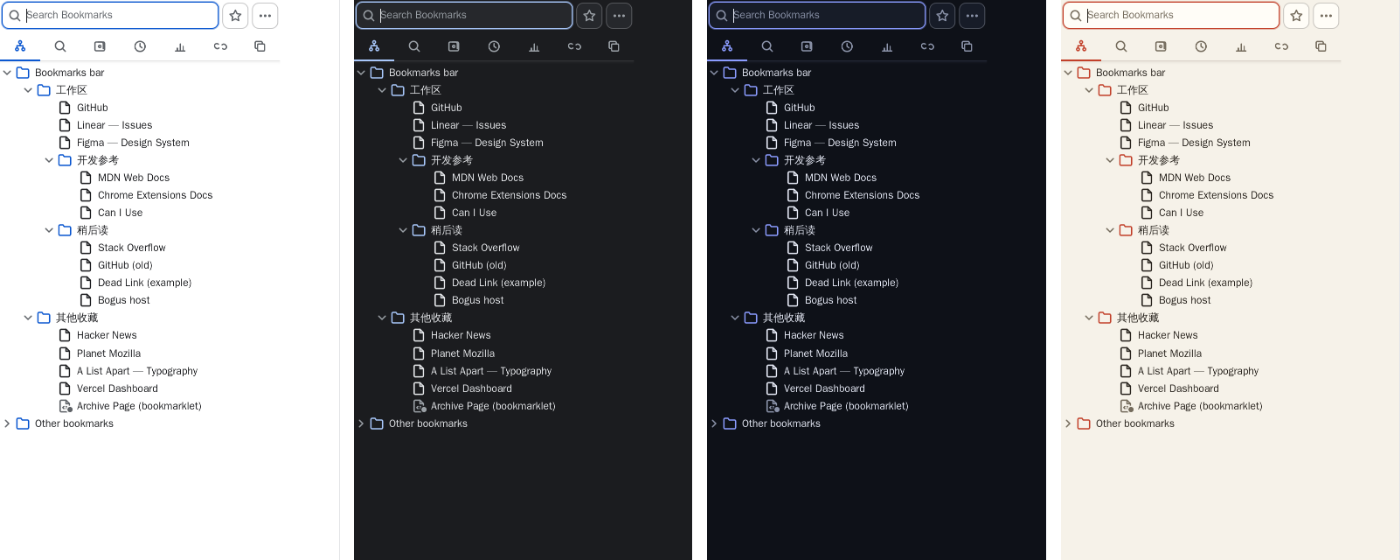
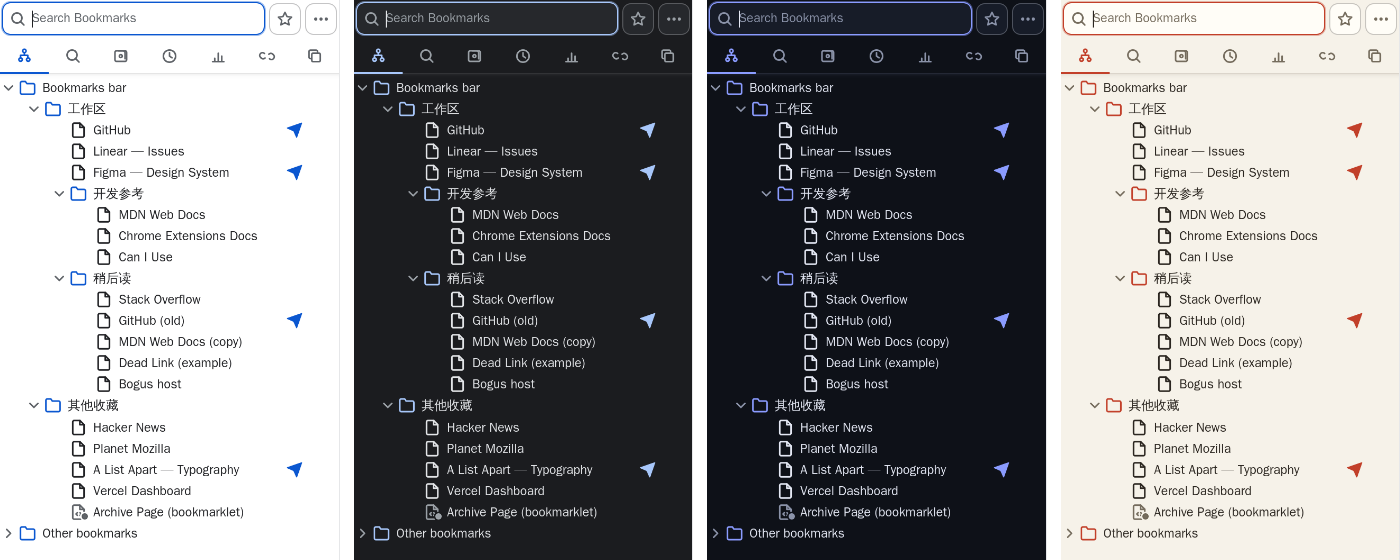
fix(store-assets): 用户反馈三项整改——①瓦片裁剪:shootTile 改为按 #container 实际盒 clip(菜单/面板 overlay 下探时取最大 bottom),strip/themes/promo 各卡不再带视口右侧死白;②视图全覆盖:promo 拆两张,主视图 sheet(树+菜单主卡 + search/暂存分组/tabgroups/stats)+ 维护 sheet promo2(死链/去重/命令面板三大卡),七视图齐;用例构造复用既有机制——data: URL(ASCII 标题防 data-URL 乱码)离线建 5 标签 + chrome.tabs.gr

diff --git a/scripts/screenshots/shots-store.js b/scripts/screenshots/shots-store.js
@@ -1,25 +1,29 @@
 // vBookmarks store-asset composer (velvet §6.3 F / task-1 N7) — the WebStore
 // image specs, produced from live popup states instead of hand assembly.
-// The store shows at most FIVE screenshots; this suite emits a candidate set
-// of four (the fifth slot stays free for the existing brand marquee or a
-// hand-picked extra):
+// The store shows at most FIVE screenshots; this suite emits exactly five:
 //
 //   strip    1400×560 — four theme tiles (light/dark/ink/paper) side by side
-//   promo    1280×800 — main popup + context menu, plus four view minis
-//                       (search / recent / stats / dead), aligned with the
-//                       layout of the hand-made assets/store/vBookmarks-v4.png
+//   promo    1280×800 — sheet 1, the views as entry points: main popup
+//                       (tree + context menu) plus search / staging-recent /
+//                       tab-groups / stats minis, aligned with the hand-made
+//                       assets/store/vBookmarks-v4.png layout
+//   promo2   1280×800 — sheet 2, the maintenance crew: dead-link scanner /
+//                       duplicate cleaner minis + the command palette
 //   themes   1280×800 — the two crafted themes split full-bleed: ink | paper
-//   options  1280×800 — the options page as a multi-column panorama (one
-//                       full-page capture sliced into columns, so all 20
-//                       sections read at a glance)
+//   options  1280×800 — the options page as one panorama (see below)
+//
+// Every popup tile is clipped to the #container box (menus/palettes may
+// extend it downward) — the viewport-width dead margin on the right would
+// otherwise read as a broken layout in the composites.
 //
 // Pipeline: capture each state at deviceScaleFactor 2 (crisp when downscaled)
 // → compose via a temporary HTML grid of <img> tiles → one full-page
 // screenshot at the exact store canvas size. Zero canvas dependency.
 //
-// Output: /tmp/shots/store/{strip,promo,themes,options}.png, plus the raw
-// tiles under tiles/ for manual re-mixing. Human picks and copies the keepers
-// into assets/store/ — nothing here is auto-uploaded.
+// Output: /tmp/shots/store/{strip,promo,promo2,themes,options}.png, plus the
+// raw tiles under tiles/ for manual re-mixing. The keepers are synced to
+// assets/store/ and uploaded via the Developer Dashboard by a human — nothing
+// here is auto-uploaded.
 const puppeteer = require('puppeteer');
 const fs = require('fs');
 const path = require('path');
@@ -31,18 +35,21 @@ const sleep = ms => new Promise(r => setTimeout(r, ms));
 
 // Strip: four theme tiles (classic joins this list when velvet S5 lands).
 const STRIP_THEMES = ['light', 'dark', 'ink', 'paper'];
-// Promo minis: view id on the tab bar → tile name. Capture order matters:
-// search LAST — its typed query persists in storage and would otherwise leak
-// into the boxes of every page opened afterwards. The composite grid places
-// the tiles in display order regardless.
-const PROMO_VIEWS = [
+// Promo sheet 1 minis: view id on the tab bar → tile name. Capture order
+// matters: search LAST — its typed query persists in storage and would
+// otherwise leak into the boxes of every page opened afterwards. The
+// composite grid places the tiles in display order regardless.
+const SHEET1_VIEWS = [
     ['recent', 'view-recent'],
+    ['tabgroups', 'view-tabgroups'],
     ['stats', 'view-stats'],
     ['dead', 'view-dead'],
+    ['dupes', 'view-dupes'],
     ['search', 'view-search']
 ];
-// Display order of the same tiles inside the promo grid (row-major).
-const PROMO_GRID = ['view-search', 'view-recent', 'view-stats', 'view-dead'];
+// Display order per sheet (row-major).
+const SHEET1_GRID = ['view-search', 'view-recent', 'view-tabgroups', 'view-stats'];
+const SHEET2_GRID = ['view-dead', 'view-dupes', 'palette-open'];
 
 const SEED = `
 (async () => {
@@ -52,12 +59,13 @@ const SEED = `
     await create({ parentId: work.id, title: 'Linear — Issues', url: 'https://linear.app/issues' });
     const figma = await create({ parentId: work.id, title: 'Figma — Design System', url: 'https://www.figma.com/files/design-system' });
     const devref = await create({ parentId: work.id, title: '开发参考' });
-    await create({ parentId: devref.id, title: 'MDN Web Docs', url: 'https://developer.mozilla.org/docs/Web' });
+    const mdn = await create({ parentId: devref.id, title: 'MDN Web Docs', url: 'https://developer.mozilla.org/docs/Web' });
     await create({ parentId: devref.id, title: 'Chrome Extensions Docs', url: 'https://developer.chrome.com/docs/extensions' });
     await create({ parentId: devref.id, title: 'Can I Use', url: 'https://caniuse.com' });
     const later = await create({ parentId: work.id, title: '稍后读' });
     const so = await create({ parentId: later.id, title: 'Stack Overflow', url: 'https://stackoverflow.com/questions/tagged/chrome-extension' });
     await create({ parentId: later.id, title: 'GitHub (old)', url: 'https://github.com/vBookmarks' });
+    const mdnCopy = await create({ parentId: later.id, title: 'MDN Web Docs (copy)', url: 'https://developer.mozilla.org/docs/Web' });
     const dead1 = await create({ parentId: later.id, title: 'Dead Link (example)', url: 'https://example.invalid/dead-page' });
     const dead2 = await create({ parentId: later.id, title: 'Bogus host', url: 'https://thishost.does.not.exist.example/' });
     const other = await create({ parentId: '1', title: '其他收藏' });
@@ -67,15 +75,30 @@ const SEED = `
     await create({ parentId: other.id, title: 'Vercel Dashboard', url: 'https://vercel.com/dashboard' });
     await create({ parentId: other.id, title: 'Archive Page (bookmarklet)', url: 'javascript:void(location.href="https://web.archive.org/web/*/"+location.href)' });
 
-    // Dead-link marks so the dead tile shows verdict chips without a rescan.
-    // Ids are looked up by URL — the seed runs against a fresh profile every time.
+    // Ids by URL — the seed runs against a fresh profile every time.
     const all = await new Promise(r => chrome.bookmarks.getTree(r));
     const byUrl = {};
     (function walk(nodes) { for (const n of nodes) { if (n.url) byUrl[n.url] = n.id; if (n.children) walk(n.children); } })(all);
+
+    // Real Chrome tabs in two named groups + one loose tab → the tab-groups
+    // view renders live browser data. data: URLs load offline and carry
+    // their page title in the markup — ASCII only, non-ASCII mojibakes in
+    // data: URLs without an explicit charset.
+    const mk = async t => new Promise(r => chrome.tabs.create({ url: t.url, active: false }, r));
+    const tA1 = await mk({ url: 'data:text/html,<title>GitHub - vBookmarks</title><h1>gh</h1>' });
+    const tA2 = await mk({ url: 'data:text/html,<title>Linear - Issues</title><h1>lin</h1>' });
+    const tA3 = await mk({ url: 'data:text/html,<title>Figma - Design System</title><h1>fig</h1>' });
+    const tB1 = await mk({ url: 'data:text/html,<title>MDN Web Docs</title><h1>mdn</h1>' });
+    const tB2 = await mk({ url: 'data:text/html,<title>Can I Use</title><h1>ciu</h1>' });
+    const gA = await new Promise(r => chrome.tabs.group({ tabIds: [tA1.id, tA2.id, tA3.id] }, r));
+    const gB = await new Promise(r => chrome.tabs.group({ tabIds: [tB1.id, tB2.id] }, r));
+    await new Promise(r => chrome.tabGroups.update(gA, { title: '工作区', color: 'blue' }, r));
+    await new Promise(r => chrome.tabGroups.update(gB, { title: '开发参考', color: 'green' }, r));
+
     await new Promise(r => chrome.storage.local.set({
         deadLastScan: JSON.stringify({
             ts: Date.now() - 1800e3,
-            scannedCount: 14,
+            scannedCount: 16,
             results: {
                 [byUrl['https://example.invalid/dead-page']]: { status: 'dead', code: 404 },
                 [byUrl['https://thishost.does.not.exist.example/']]: { status: 'dead', code: 0, error: 'ERR_NAME_NOT_RESOLVED' }
@@ -87,6 +110,26 @@ const SEED = `
             [figma.id]:   { c: 12,  t: Date.now() - 7200e3 },
             [hn.id]:      { c: 7,   t: Date.now() - 6 * 86400e3 },
             [dead1.id]:   { c: 2,   t: Date.now() - 20 * 86400e3 }
+        }),
+        // Staging workbench: one named group holding all rows — starred and
+        // plain (id:null) side by side, the dual-state rows being the feature
+        // shot. Keep the unbookmarked inbox empty: it renders ABOVE the
+        // groups and would push the group rows below the tile fold.
+        staging: JSON.stringify({
+            v: 1,
+            items: [
+                { id: byUrl['https://github.com/vBookmarks'], url: 'https://github.com/vBookmarks', title: 'GitHub', ts: Date.now() - 300e3, group: 'stg1' },
+                { id: byUrl['https://www.figma.com/files/design-system'], url: 'https://www.figma.com/files/design-system', title: 'Figma — Design System', ts: Date.now() - 240e3, group: 'stg1' },
+                { id: null, url: 'https://alistapart.com/topics/typography', title: 'A List Apart — Typography', ts: Date.now() - 180e3, group: 'stg1' },
+                { id: byUrl['https://news.ycombinator.com'], url: 'https://news.ycombinator.com', title: 'Hacker News', ts: Date.now() - 120e3, group: 'stg1' },
+                { id: null, url: 'https://planet.mozilla.org', title: 'Planet Mozilla', ts: Date.now() - 60e3, group: 'stg1' }
+            ],
+            groups: [
+                { id: 'stg1', name: '稍后整理', collapsed: false, createdAt: Date.now() - 600e3 }
+            ],
+            recentCollapsed: false,
+            unfavCollapsed: false,
+            lastSeenTs: 0
         }),
         currentVersion: chrome.runtime.getManifest().version,
         donationFactor: 1,
@@ -148,15 +191,15 @@ const SEED = `
     await seedPage.goto(`chrome-extension://${extId}/pages/popup.html`, { waitUntil: 'domcontentloaded' });
     await sleep(600);
     await seedPage.evaluate(SEED);
-    await sleep(600);
+    await sleep(800);
     await seedPage.close();
 
     // Theme in BOTH stores (localStorage prefill + storage) then reload —
     // same discipline as shots-matrix; otherwise values leak across pages.
-    const openThemed = async (theme, dpr = 2) => {
+    const openThemed = async (theme, dpr = 2, viewportHeight = 640) => {
         const page = await browser.newPage();
         watch(page, `tile-${theme}`);
-        await page.setViewport({ width: 400, height: 640, deviceScaleFactor: dpr });
+        await page.setViewport({ width: 400, height: viewportHeight, deviceScaleFactor: dpr });
         await page.evaluateOnNewDocument(t => {
             try { localStorage.setItem('theme', t); } catch (e) {}
             // Recent view: fudge dateAdded by index range so the coarse time
@@ -190,9 +233,25 @@ const SEED = `
         }
     };
 
-    const shootTile = async (page, name) => {
-        await page.screenshot({ path: `${OUT}/tiles/${name}.png` });
-        console.log(`  tiles/${name}.png`);
+    // Clip to the real UI box: #container plus any overlay (context menu /
+    // palette) that extends past it. Capturing the raw viewport would ship a
+    // dead right margin — the popup hugs its content in real Chrome windows.
+    const shootTile = async (page, name, { height = 'content' } = {}) => {
+        const box = await page.evaluate(hMode => {
+            const c = document.getElementById('container');
+            const r = c ? c.getBoundingClientRect()
+                : { left: 0, top: 0, width: innerWidth, bottom: innerHeight };
+            let bottom = r.bottom;
+            for (const id of ['bookmark-context-menu', 'folder-context-menu', 'command-palette']) {
+                const m = document.getElementById(id);
+                const shown = m && !m.hidden && getComputedStyle(m).opacity !== '0';
+                if (shown) bottom = Math.max(bottom, m.getBoundingClientRect().bottom);
+            }
+            const height2 = hMode === 'viewport' ? innerHeight : Math.min(bottom + 2, innerHeight);
+            return { x: 0, y: 0, width: Math.ceil(r.width), height: Math.ceil(height2) };
+        }, height);
+        await page.screenshot({ path: `${OUT}/tiles/${name}.png`, clip: box });
+        console.log(`  tiles/${name}.png (${box.width}x${box.height})`);
     };
 
     // --- 1. the four theme tree tiles (strip sources) -----------------------
@@ -205,9 +264,10 @@ const SEED = `
 
     // --- 2. light-tree page keeps going: context menu overlay ----------------
     // The promo's main card mirrors vBookmarks-v4.png top-left: expanded tree
-    // with the bookmark context menu open over it.
+    // with the bookmark context menu open over it. Tall viewport so the long
+    // menu is not cut mid-item at the frame bottom.
     {
-        const page = (await browser.pages()).find(p => p.url().includes('popup.html'));
+        const page = await openThemed('light', 2, 800);
         const link = await page.evaluate(() => {
             const a = [...document.querySelectorAll('#tree a.tree-item-link')]
                 .find(a => (a.querySelector('i')?.textContent || '').includes('GitHub'));
@@ -226,14 +286,14 @@ const SEED = `
             return m && m.style.opacity === '1';
         });
         if (!menuOpen) errors.push('bookmark menu did not open');
-        await shootTile(page, 'tree-menu-light');
+        await shootTile(page, 'tree-menu-light', { height: 'viewport' });
         await page.close();
     }
 
-    // --- 3. view minis --------------------------------------------------------
+    // --- 3. view minis (all seven views across the two promo sheets) ---------
     // search is driven through the real input (typed query → results + mark
     // highlighting, like the reference collage); the other views via tab click.
-    for (const [viewId, tile] of PROMO_VIEWS) {
+    for (const [viewId, tile] of SHEET1_VIEWS) {
         const page = await openThemed('light');
         if (viewId === 'search') {
             await page.click('#search-input');
@@ -255,7 +315,7 @@ const SEED = `
     }
 
     // --- 4. palette open ------------------------------------------------------
-    // Shot last on its own page; closed by reload rather than Esc (CDP cannot
+    // Shot on its own page; closed by close() rather than Esc (CDP cannot
     // deliver Escape — docs/cdp-escape-limitation.md).
     {
         const page = await openThemed('light');
@@ -270,11 +330,11 @@ const SEED = `
         await page.close();
     }
 
-    // --- 4b. options page full-page capture (panorama source) -----------------
+    // --- 5. options page full-page capture (panorama source) -----------------
     // Physics of the "all 20 sections in one 1280×800 frame" goal: the
     // multicol sheet is ~6540 column-px at 340px columns, so it only fits one
     // frame when the grid spreads to SIX columns (5 or fewer stay too tall).
-    // That needs the viewport wide enough AND the container's max-width:1760
+    // That needs the viewport wide enough AND the .options-page max-width cap
     // overridden — hence the injected style. Scale in the composite is ~0.54,
     // a legible-at-zoom overview (the hand-made vBookmarks-v4-options.png
     // dodge was showing only half the groups; this is the real panorama).
@@ -287,10 +347,7 @@ const SEED = `
         await page.evaluate(() => new Promise(r => chrome.storage.sync.set({ theme: 'light' }, r)));
         await page.reload({ waitUntil: 'domcontentloaded' });
         await sleep(1200);
-        // Spread the multicol sheet past its max-width:1760 cap so six 340px
-        // columns fit — the only geometry where the whole page matches the
-        // 1280×800 frame aspect. Injected post-load (a pre-load injection has
-        // no documentElement yet).
+        // Injected post-load (a pre-load injection has no documentElement yet).
         await page.evaluate(() => {
             const s = document.createElement('style');
             s.textContent = '.options-page{max-width:none !important;} .options-grid{column-count:6 !important;}';
@@ -316,9 +373,9 @@ const SEED = `
 
     await browser.close();
 
-    // --- 5. composites ---------------------------------------------------------
-    // Card look shared by both canvases: rounded frame + hairline border +
-    // soft shadow so white-theme popups read against the white backdrop.
+    // --- 6. composites ---------------------------------------------------------
+    // Card look shared by all canvases: rounded frame + hairline border +
+    // soft shadow so white-theme popups read against the light backdrop.
     const cardCss = `
         * { margin: 0; padding: 0; box-sizing: border-box; }
         html, body { width: 100%; height: 100%; background: #fff; font-family: system-ui, sans-serif; }
@@ -362,7 +419,9 @@ const SEED = `
                  </div>`).join('\n')}
         </div>`);
 
-    // promo 1280×800: main popup (tree + context menu) + 2×2 view minis.
+    // promo 1280×800 (sheet 1): main popup (tree + context menu) + 2×2 view
+    // minis covering the entry-point views: search / staging-recent /
+    // tab-groups / stats.
     await compose('promo.html', 1280, 800, `
         <div style="display:flex; gap:34px; height:100vh; padding:46px 38px;
                     background:#f4f6f9;">
@@ -371,9 +430,18 @@ const SEED = `
             </div>
             <div style="flex:1; display:grid; grid-template-columns:1fr 1fr;
                         grid-template-rows:1fr 1fr; gap:22px;">
-                ${PROMO_GRID.map(tile =>
+                ${SHEET1_GRID.map(tile =>
                     `<div class="card"><img src="${rel(tile)}"></div>`).join('\n')}
             </div>
+        </div>`);
+
+    // promo2 1280×800 (sheet 2): the maintenance crew — dead-link scanner,
+    // duplicate cleaner, command palette — three large minis.
+    await compose('promo2.html', 1280, 800, `
+        <div style="display:flex; gap:26px; height:100vh; padding:46px 38px;
+                    background:#f4f6f9;">
+            ${SHEET2_GRID.map(tile =>
+                `<div class="card" style="flex:1;"><img src="${rel(tile)}"></div>`).join('\n')}
         </div>`);
 
     // themes 1280×800: the two crafted themes split full-bleed (ink | paper).

diff --git a/scripts/package.py b/scripts/package.py
@@ -81,6 +81,7 @@ EXCLUDE_FILES = {
     # shots-store.js candidates (re-shot per release from tmp/shots/store/)
     'assets/store/vBookmarks-strip.png',
     'assets/store/vBookmarks-promo.png',
+    'assets/store/vBookmarks-promo2.png',
     'assets/store/vBookmarks-themes.png',
     'assets/store/vBookmarks-options.png',
     # Dev/tooling files

diff --git a/docs/plan-velvet/velvet-task-2-k3.md b/docs/plan-velvet/velvet-task-2-k3.md
@@ -480,7 +480,7 @@ B3 macro/引用、C4 中成本（结果批量操作/作用域搜索/参数化 `/
 
 维持 task-1-final 原案：`scripts/screenshots/shots-store.js` 高 DPR 截取关键态 → 合成页拼图（临时 HTML grid + 整页截图，零 canvas）→ `assets/store/`。
 
-> **提前落地记录（2026-08-26，feature/webstore-store-assets）**：`shots-store.js` 已按本节规格实施并通过 Docker 实跑（四主题瓦片 + 带右键菜单主卡 + search/recent/stats/dead/palette/选项页整页共 11 瓦片 → 按商店展示上限 5 张产出 4 张候选：`strip.png` 1400×560 四主题条带、`promo.png` 1280×800 视图拼贴（对齐手工 `vBookmarks-v4.png` 版式）、`themes.png` 1280×800 ink|paper 重点主题对开、`options.png` 1280×800 选项页真全景——宽视口 + 强制 6 栏（覆盖 `.options-page` 的 max-width:1760）把 20 组设置整页装进一框，手工参考图只敢放一半组；第 5 槽位留给品牌横幅；非扩展请求全 abort 保离线确定性；classic 主题落地后往 `STRIP_THEMES` 加一项即可）。listing 元信息同步升级：官方 V2 REST 无 listing 端点，故以 `publish.js listing`（公开页快照 + extName/extDesc 比对）与 `listing-draft`（规范源双语草稿 + 截图册规格核对）落地「取回/更新准备」，上传纪律不变。
+> **提前落地记录（2026-08-26，feature/webstore-store-assets）**：`shots-store.js` 已按本节规格实施并通过 Docker 实跑（四主题瓦片 + 带右键菜单主卡 + search/recent/stats/dead/palette/选项页整页共 11 瓦片 → 按商店展示上限 5 张产出 5 张候选（7 视图全覆盖，瓦片一律按 #container 实际盒裁剪、无视口死白）：`strip.png` 1400×560 四主题条带、`promo.png` 1280×800 视图入口拼贴①（树+右键菜单主卡 + search/暂存分组/tabgroups 实时窗口数据/stats 小图，对齐手工 `vBookmarks-v4.png` 版式）、`promo2.png` 1280×800 维护工具拼贴②（死链/去重/命令面板三大卡）、`themes.png` 1280×800 ink|paper 重点主题对开、`options.png` 1280×800 选项页真全景——宽视口 + 强制 6 栏（覆盖 `.options-page` 的 max-width:1760）把 20 组设置整页装进一框，手工参考图只敢放一半组；用例构造复用既有套件机制（data: URL 带 ASCII 标题的离线标签页 + `chrome.tabs.group`/`tabGroups.update` 造两组、staging local 键按模型灌双态分组行、同 URL 三份造去重组）；非扩展请求全 abort 保离线确定性；classic 主题落地后往 `STRIP_THEMES` 加一项即可）。listing 元信息同步升级：官方 V2 REST 无 listing 端点，故以 `publish.js listing`（公开页快照 + extName/extDesc 比对）与 `listing-draft`（规范源双语草稿 + 截图册规格核对）落地「取回/更新准备」，上传纪律不变。
 - 规格：**1400×560**（strip：tree-light / tree-dark / ink / paper / classic / palette 横向拼）与 **1280×800**（promo：主 popup + 2–4 视图小图 + 菜单，对齐 `vBookmarks-v4.png` 版式）。
 - 视觉素材在 §1.6/§1.7 定稿后拍摄（切片依赖排后）；ink/paper/classic 三版必须出现。
 - 产出随仓库提交，人工挑选、手动上传，不接 WebStore API。

diff --git a/scripts/screenshots/README.md b/scripts/screenshots/README.md
@@ -29,26 +29,29 @@ scripts/harness/rerun.sh shots.js     # a single suite ad-hoc
 
 ## Store assets (shots-store)
 
-The store shows at most FIVE screenshots; `shots-store.js` emits a candidate
-set of four (the fifth slot stays free for the existing brand marquee or a
-hand-picked extra), all from live states instead of hand assembly
-(velvet §6.3 F):
+The store shows at most FIVE screenshots; `shots-store.js` emits exactly five
+candidates, all from live states instead of hand assembly (velvet §6.3 F):
 
 - `store/strip.png` — 1400×560, the four explicit themes side by side;
-- `store/promo.png` — 1280×800, main popup with the bookmark context menu
-  plus search/recent/stats/dead minis, aligned with the hand-made
-  `assets/store/vBookmarks-v4.png` layout;
-- `store/themes.png` — 1280×800, the two crafted themes split full-bleed
-  (ink | paper);
+- `store/promo.png` — 1280×800, sheet 1 (views as entry points): main popup
+  with the bookmark context menu plus search / staging-recent / tab-groups /
+  stats minis, aligned with the hand-made `assets/store/vBookmarks-v4.png`
+  layout;
+- `store/promo2.png` — 1280×800, sheet 2 (the maintenance crew): dead-link
+  scanner / duplicate cleaner / command palette, three large minis — together
+  with sheet 1 all seven views are covered;
 - `store/options.png` — 1280×800, the whole options page in one frame: a
   wide-viewport capture with the multicol grid forced to six columns
   (`.options-page{max-width:none}` + `column-count:6`), scaled into the
   frame — a true panorama, unlike the hand-made options shot that shows only
   half the groups.
 
+Every popup tile is clipped to the live `#container` box (overlays may extend
+it downward), so no tile carries the viewport's dead right margin.
+
 Every capture is seeded and hermetic (non-extension requests are aborted), so
-re-runs are deterministic. The four composites are synced to
-`assets/store/vBookmarks-{strip,promo,themes,options}.png` (excluded from the
+re-runs are deterministic. The five composites are synced to
+`assets/store/vBookmarks-{strip,promo,promo2,themes,options}.png` (excluded from the
 package zip like every store asset — `package.py` EXCLUDE_FILES); re-run the
 suite after visual changes and re-copy the keepers. Upload happens via the
 Developer Dashboard (the store listing itself is not API-managed; see

diff --git a/docs/README.zh.md b/docs/README.zh.md
@@ -182,7 +182,7 @@ scripts/screenshots/run.sh    # 纯视觉拍照——套件输出到 tmp/shots/
 #   scripts/screenshots/shots-palette.js 命令面板 + 四个功能视图
 #   scripts/screenshots/shots-guide.js   指南配图（搜索双区、选项页视图分组）
 #   scripts/screenshots/shots-tabgroups.js 标签组菜单与对话框全流程（service worker 侧验证）
-#   scripts/screenshots/shots-store.js   商店候选图（展示上限 5 张）：条带/拼贴/主题对开/选项页全景
+#   scripts/screenshots/shots-store.js   商店候选图（5/5）：条带/拼贴×2/主题对开/选项页全景
 #   scripts/console/      浏览器控制台探针；scripts/harness/diag/ node 诊断探针（按需）
 
 # 语言流水线（scripts/i18n.py，仅标准库）

diff --git a/docs/README.md b/docs/README.md
@@ -182,7 +182,7 @@ scripts/screenshots/run.sh    # visual capture ONLY — suites into tmp/shots/
 #   scripts/screenshots/shots-palette.js palette + the four feature views
 #   scripts/screenshots/shots-guide.js   guide screenshots (search dual zone, options Views group)
 #   scripts/screenshots/shots-tabgroups.js tab-group menus & dialogs, verified from the service worker
-#   scripts/screenshots/shots-store.js   WebStore candidates (≤5 shown): strip/promo/themes/options
+#   scripts/screenshots/shots-store.js   WebStore candidates (5/5): strip/promo/promo2/themes/options
 #   scripts/console/       browser-console probes; scripts/harness/diag/ node probes (on demand)
 
 # Locale pipeline (scripts/i18n.py, stdlib only)
